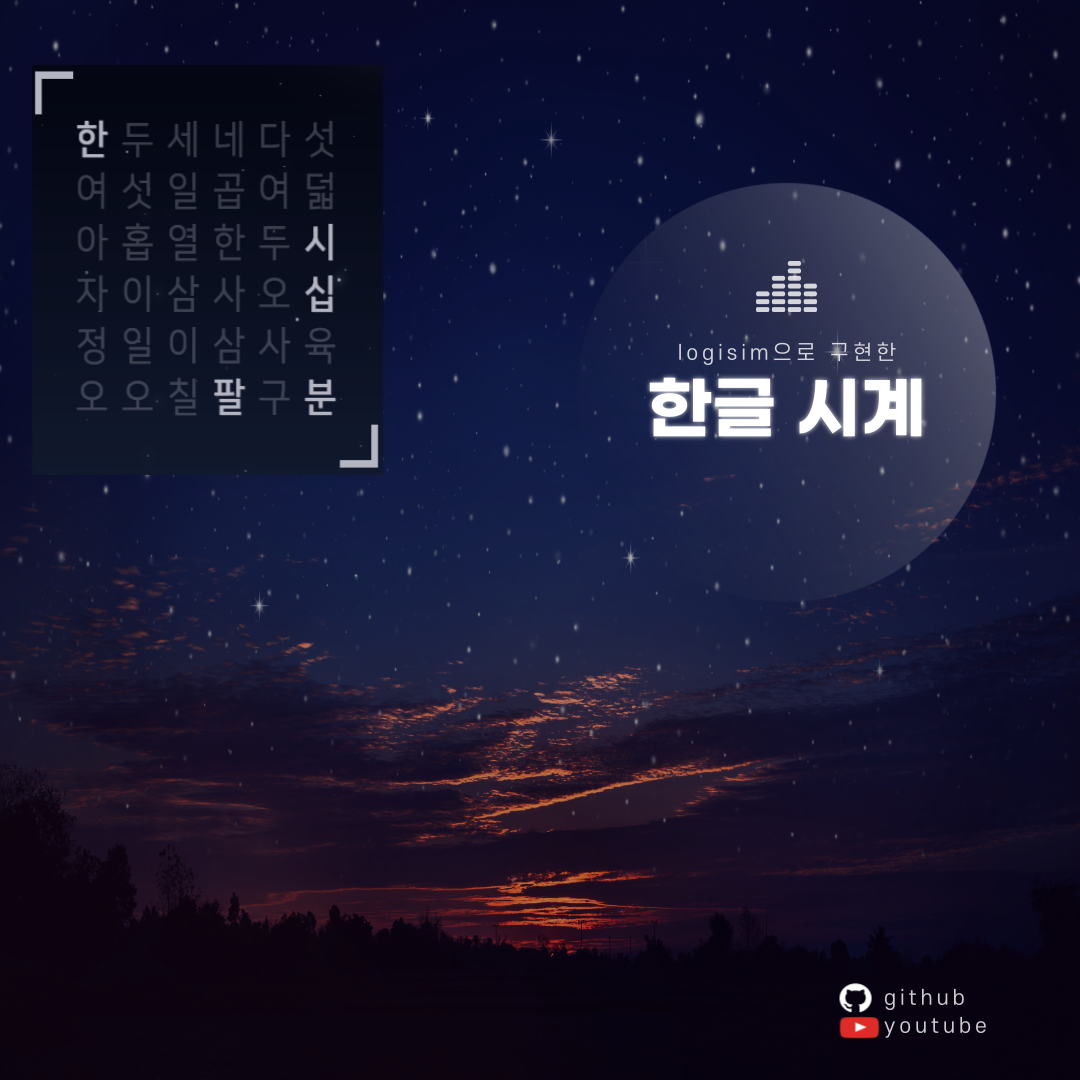
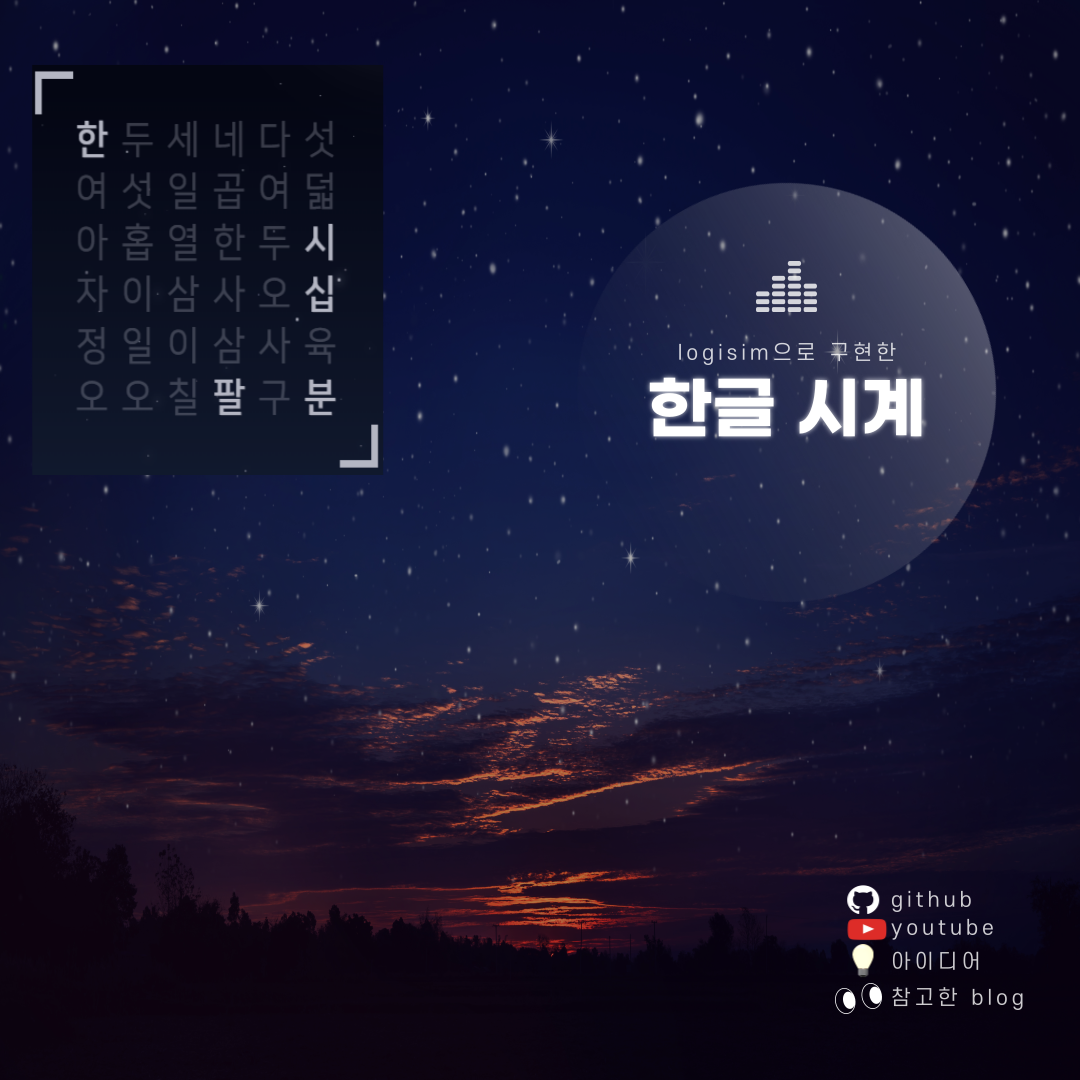
FINISH

Changed region(s): [[0.7639, 0.825, 0.9472, 0.9778]]

diff --git a/assets/18101269_report.md b/assets/18101269_report.md
@@ -19,3 +19,9 @@
 
 ### 📖 프로젝트를 수행하며 느낀 점
 - > 프로그램을 사용해서 만들어서 컴퓨터로 간단히 할 수 있었지만 직접 회로도 만들어보고 싶었고 3학년 1학기 수업인 시스템 프로그래밍과 같이 공부하고 있어서 그런지 cpu 연산에 대해 깊이 있게 이해할 수 있었습니다. 추후 Hour, Miniute set 부분과 display를 (8x8) LED Matrix를 36(6x6)개를 둬서 구성했는데 이를 한 LED Matrix에 구성하고 더 나아가 색도 추가해서 결과를 내고 싶습니다.
+
+### 💯 예상되는 자신의 프로젝트 점수
+1. Basic Score: 20
+2. Completeness: 20
+3. Creativity and Idea: 10
+4. Difficulty: 10

diff --git a/README.md b/README.md
@@ -27,7 +27,7 @@
 
 > HANGUL-CLOCK
 
-## 🪧 Brochure
+## 🪧 [Brochure](https://github.com/ha4219/hangul-clock/blob/main/assets/18101269_poster.pdf)
 ![Poster](https://github.com/ha4219/hangul-clock/blob/main/assets/18101269_poster.png?raw=true)
 
 > Logisim으로 구현한 한글 시계입니다.
@@ -50,7 +50,7 @@
 
 
 ## Reference
-- [시계 Logic](https://murcielrago.tistory.com/entry...)
+- [참고한 blog](https://murcielrago.tistory.com/entry/%EB%94%94%EC%A7%80%ED%84%B8%ED%81%B4%EB%9D%BD-%EB%94%94%EC%A7%80%ED%84%B8%EC%8B%9C%EA%B3%84-%EC%9D%B4%EB%A1%A0-%EB%B0%8F-%EC%9E%90%EB%A3%8C)
 - [아이디어](https://hangulclock.today/)
 
 ## 📄 License
